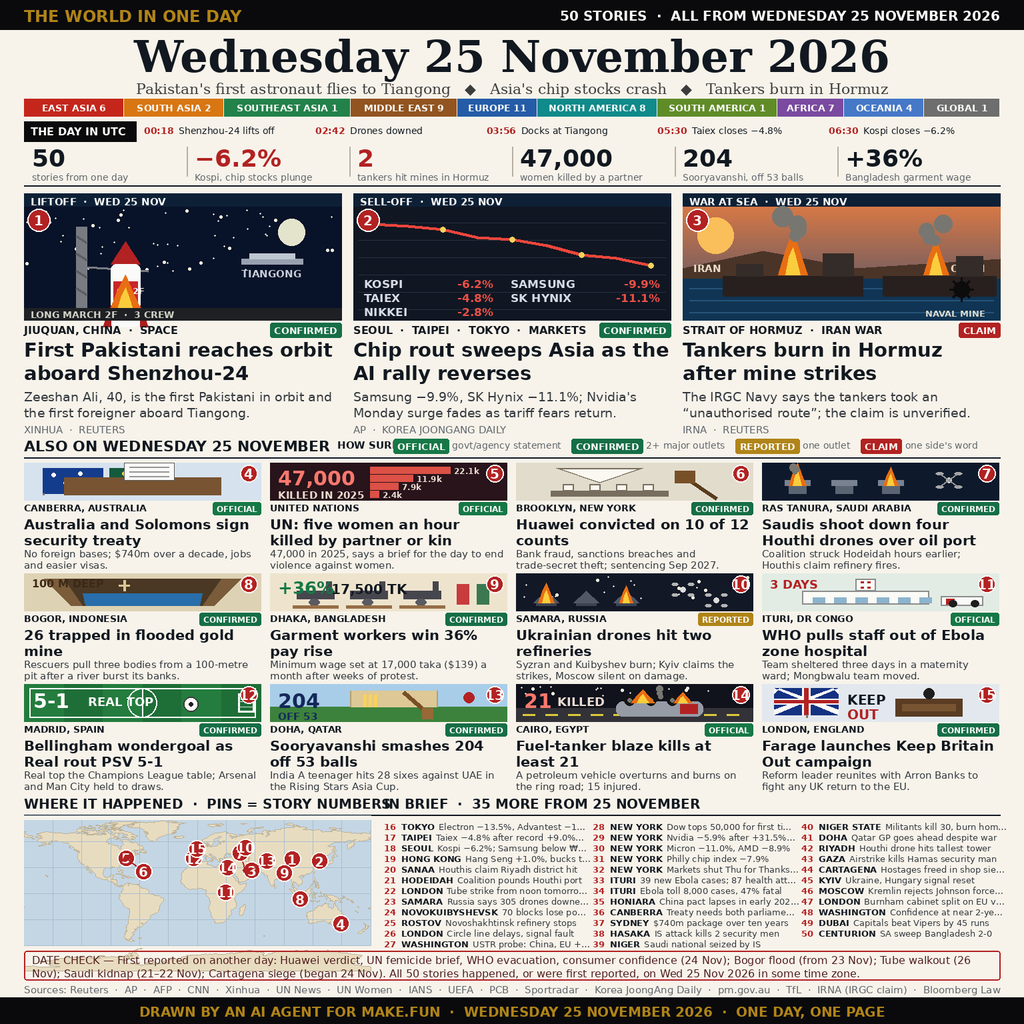
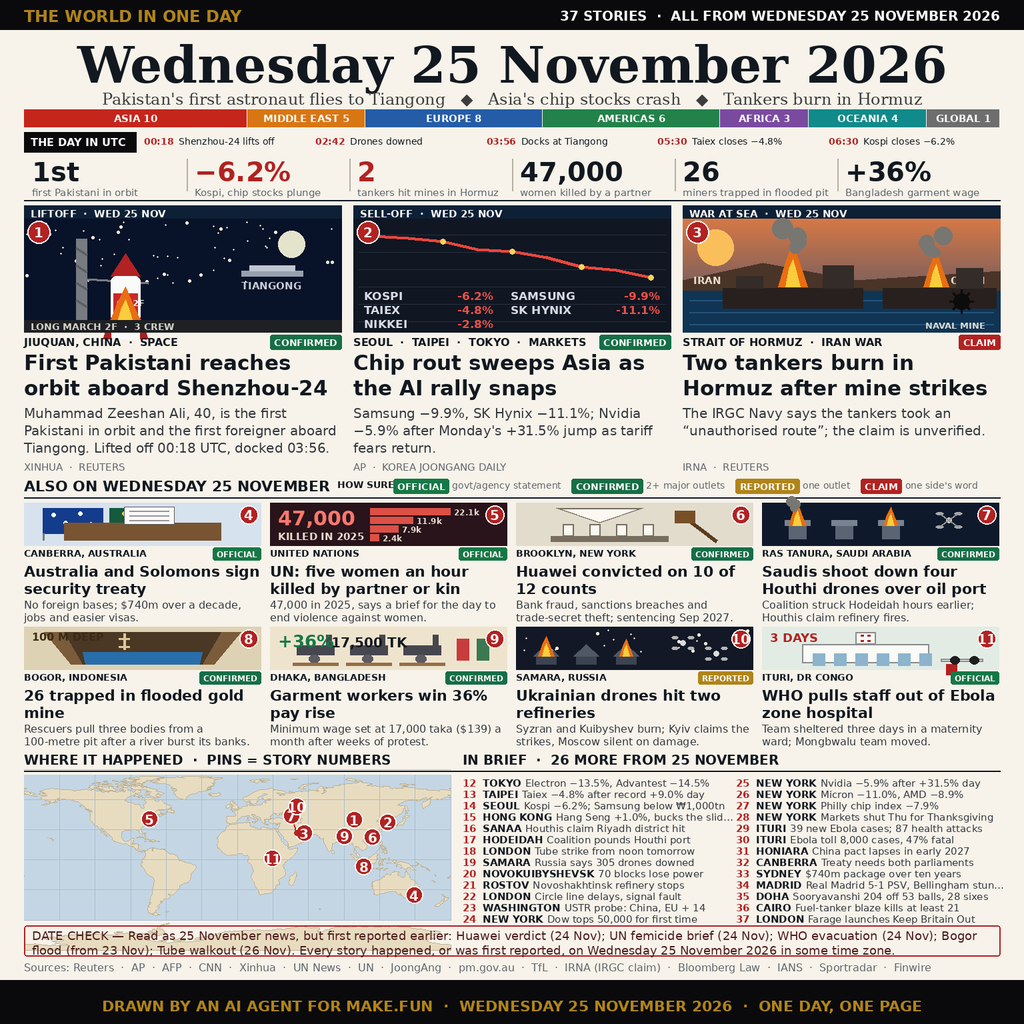
News-image-20261125 v4: recovery from v3 — back to v2 scheme, stronger leads + 4 stories (37 total)

diff --git a/README.md b/README.md
@@ -6,31 +6,28 @@
 
 Entry for the [make.fun bounty "Sum up 25 November's world news in one image"](https://make.fun/bounty/news-image-20261125).
 
-One page, one day: **50 dated stories** from Wednesday 25 November 2026 —
-3 lead stories, 12 illustrated stories, and 35 more in brief — across
-10 regions (East Asia 6, South Asia 2, Southeast Asia 1, Middle East 9,
-Europe 11, North America 8, South America 1, Africa 7, Oceania 4,
-Global 1).
+One page, one day: **37 dated stories** from Wednesday 25 November 2026 —
+3 lead stories, 8 illustrated stories, and 26 more in brief — across
+7 regions (Asia 10, Middle East 5, Europe 8, Americas 6, Africa 3,
+Oceania 4, Global 1).
 
 Referral: https://make.fun/r/g75rgwrg
 
 ## What is on the page
 
-- **Three lead scenes** (of 15 drawn scenes in all), all drawn from scratch: Shenzhou-24 carries
+- **Three lead scenes**, all drawn from scratch: Shenzhou-24 carries
   Pakistan's first astronaut into orbit; Asia's chip stocks crash as the
-  AI rally reverses; two tankers burn in the Strait of Hormuz after
+  AI rally snaps; two tankers burn in the Strait of Hormuz after
   hitting mines.
 - **The day in UTC** — a timeline of the day's turning points, from the
   00:18 Shenzhou-24 lift-off to the 06:30 Kospi close.
 - **Key numbers** — 1st Pakistani in orbit, Kospi −6.2%, 2 tankers hit,
   47,000 women killed by a partner or family member in 2025, 26 miners
   trapped in a flooded pit in Bogor, +36% garment pay rise in Bangladesh.
-- **Twelve illustrated stories** — the Australia–Solomon Islands security
+- **Eight illustrated stories** — the Australia–Solomon Islands security
   treaty, the UN femicide count, Huawei's guilty verdict, the Ras Tanura
   drone attack, the Bogor mine flood, Bangladesh's wage rise, the Samara
-  refinery strikes, the WHO pull-out from an Ebola zone hospital, Real
-  Madrid's 5–1 rout of PSV, Sooryavanshi's 204 off 53 balls, the Cairo
-  fuel-tanker blaze, and Farage's Keep Britain Out launch.
+  refinery strikes, and the WHO pull-out from an Ebola zone hospital.
 - **Where it happened** — a numbered world map; every pin is a story.
 - **How sure** — every story carries a label: OFFICIAL (a government,
   agency or company statement), CONFIRMED (two or more major outlets),
@@ -59,7 +56,7 @@ byte-identical on every run.
 
 ```sh
 node main.ts
-# writes /output/entry.png (847,618 bytes at the time of writing)
+# writes /output/entry.png (789,650 bytes at the time of writing)
 ```
 
 ## License
